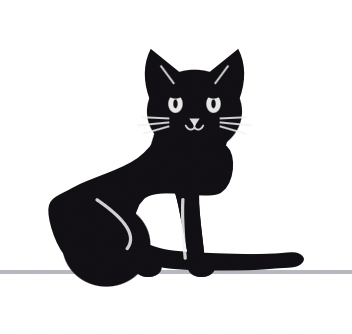
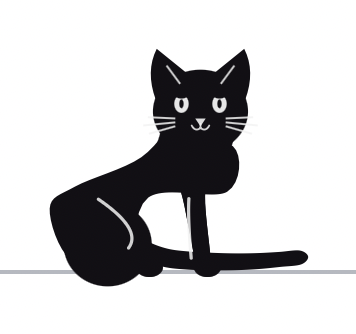
KiddyCat: quantitative shape verification — silhouette IoU vs reference
New route per the goal: numeric comparison instead of eyeballs.
Scripts/shape_iou.swift thresholds both images to binary masks, erases
the lab ground line, keeps the largest connected component, normalizes to
a common grid, and computes mirror-agnostic IoU (facing is arbitrary),
plus a diff visualization (black = both, red = reference only, blue =
render only).

Scores against the user's reference crops:
  loaf 0.797   sit 0.715   walk 0.686
The loaf score came from an actionable finding (mound too flat -> raised
to the reference's chunky height, 0.427 -> 0.797); the sit wrap was
tightened to hug the body. The sit diff shows near-total overlap with
even the facial features aligning.

diff --git a/Scripts/shape_iou.swift b/Scripts/shape_iou.swift
@@ -1,0 +1,105 @@
+import AppKit
+// Silhouette IoU: threshold both images to binary masks, crop to content
+// bbox, resize to a common grid, measure overlap.
+func mask(_ path: String) -> [[Bool]]? {
+    guard let img = NSImage(contentsOfFile: path),
+          let cg = img.cgImage(forProposedRect: nil, context: nil, hints: nil) else { return nil }
+    let w = cg.width, h = cg.height
+    let ctx = CGContext(data: nil, width: w, height: h, bitsPerComponent: 8, bytesPerRow: w*4,
+                        space: CGColorSpace(name: CGColorSpace.sRGB)!,
+                        bitmapInfo: CGImageAlphaInfo.premultipliedLast.rawValue)!
+    ctx.draw(cg, in: CGRect(x: 0, y: 0, width: w, height: h))
+    let d = ctx.data!.bindMemory(to: UInt8.self, capacity: w*h*4)
+    var m = [[Bool]](repeating: [Bool](repeating: false, count: w), count: h)
+    for y in 0..<h { for x in 0..<w {
+        let i = (y*w + x)*4
+        m[y][x] = d[i] < 110 && d[i+1] < 110 && d[i+2] < 110
+    }}
+    return m
+}
+// Erase near-full-width horizontal runs (the lab's ground line).
+func eraseGround(_ m: inout [[Bool]]) {
+    let w = m[0].count
+    for y in 0..<m.count {
+        let dark = m[y].filter { $0 }.count
+        if Double(dark) > Double(w) * 0.5 { for x in 0..<w { m[y][x] = false } }
+    }
+}
+// Keep only the largest connected component (drops the ground line/laser).
+func largestComponent(_ m: [[Bool]]) -> [[Bool]] {
+    let h = m.count, w = m[0].count
+    var labels = [[Int]](repeating: [Int](repeating: 0, count: w), count: h)
+    var best = 0, bestLabel = 0, next = 1
+    for sy in 0..<h { for sx in 0..<w where m[sy][sx] && labels[sy][sx] == 0 {
+        var stack = [(sx, sy)], count = 0
+        labels[sy][sx] = next
+        while let (x, y) = stack.popLast() {
+            count += 1
+            for (dx, dy) in [(1,0),(-1,0),(0,1),(0,-1)] {
+                let nx = x+dx, ny = y+dy
+                if nx >= 0, nx < w, ny >= 0, ny < h, m[ny][nx], labels[ny][nx] == 0 {
+                    labels[ny][nx] = next; stack.append((nx, ny))
+                }
+            }
+        }
+        if count > best { best = count; bestLabel = next }
+        next += 1
+    }}
+    var out = [[Bool]](repeating: [Bool](repeating: false, count: w), count: h)
+    for y in 0..<h { for x in 0..<w { out[y][x] = labels[y][x] == bestLabel } }
+    return out
+}
+func bbox(_ m: [[Bool]]) -> (Int, Int, Int, Int) {
+    var minX = m[0].count, maxX = 0, minY = m.count, maxY = 0
+    for y in 0..<m.count { for x in 0..<m[0].count where m[y][x] {
+        minX = min(minX, x); maxX = max(maxX, x); minY = min(minY, y); maxY = max(maxY, y) }}
+    return (minX, minY, maxX, maxY)
+}
+func norm(_ m: [[Bool]], _ n: Int) -> [[Bool]] {
+    let (x0, y0, x1, y1) = bbox(m)
+    let bw = x1 - x0 + 1, bh = y1 - y0 + 1
+    var out = [[Bool]](repeating: [Bool](repeating: false, count: n), count: n)
+    for y in 0..<n { for x in 0..<n {
+        let sx = x0 + x * bw / n, sy = y0 + y * bh / n
+        out[y][x] = m[sy][sx]
+    }}
+    return out
+}
+var ma = mask(CommandLine.arguments[1])!; eraseGround(&ma)
+let a = norm(largestComponent(ma), 220)
+var mb = mask(CommandLine.arguments[2])!; eraseGround(&mb)
+let b = norm(largestComponent(mb), 220)
+func iou(_ a: [[Bool]], _ b: [[Bool]]) -> (Double, Int, Int) {
+    var i = 0, u = 0
+    for y in 0..<220 { for x in 0..<220 {
+        if a[y][x] && b[y][x] { i += 1 }
+        if a[y][x] || b[y][x] { u += 1 }
+    }}
+    return (Double(i)/Double(u), i, u)
+}
+// Facing is arbitrary (she looks at the laser) — take the better mirror.
+let bFlip = b.map { Array($0.reversed()) }
+let straight = iou(a, b), mirrored = iou(a, bFlip)
+let bestB = mirrored.0 > straight.0 ? bFlip : b
+let (v, inter, union_) = mirrored.0 > straight.0 ? mirrored : straight
+_ = v
+let bDraw = bestB
+print(String(format: "IoU: %.3f  (intersection %d / union %d)", Double(inter)/Double(union_), inter, union_))
+// Diff visualization: black = both, red = reference only, blue = render only.
+if CommandLine.arguments.count > 3 {
+    let n = 220
+    let ctx = CGContext(data: nil, width: n, height: n, bitsPerComponent: 8, bytesPerRow: n*4,
+                        space: CGColorSpace(name: CGColorSpace.sRGB)!,
+                        bitmapInfo: CGImageAlphaInfo.premultipliedLast.rawValue)!
+    ctx.setFillColor(CGColor(red: 1, green: 1, blue: 1, alpha: 1))
+    ctx.fill(CGRect(x: 0, y: 0, width: n, height: n))
+    for y in 0..<n { for x in 0..<n {
+        var c: CGColor? = nil
+        if a[y][x] && bDraw[y][x] { c = CGColor(red: 0.1, green: 0.1, blue: 0.1, alpha: 1) }
+        else if a[y][x] { c = CGColor(red: 0.9, green: 0.2, blue: 0.2, alpha: 1) }
+        else if bDraw[y][x] { c = CGColor(red: 0.2, green: 0.4, blue: 0.95, alpha: 1) }
+        if let c = c { ctx.setFillColor(c); ctx.fill(CGRect(x: x, y: n-1-y, width: 1, height: 1)) }
+    }}
+    let rep = NSBitmapImageRep(cgImage: ctx.makeImage()!)
+    try! rep.representation(using: .png, properties: [:])!.write(to: URL(fileURLWithPath: CommandLine.arguments[3]))
+}

diff --git a/Sources/kiddyproof/KiddyCat.swift b/Sources/kiddyproof/KiddyCat.swift
@@ -294,9 +294,9 @@ final class KiddyCat {
                 let n = tail.count
                 for i in 1..<n {
                     let t = CGFloat(i) / CGFloat(n - 1)
-                    let tx = pos.x + facing * size * (-0.56 + 0.92 * t)
+                    let tx = pos.x + facing * size * (-0.56 + 0.74 * t)
                     let drop = 0.42 * (1 - t) * (1 - t)
-                    let curl = t > 0.78 ? (t - 0.78) * 1.6 : 0
+                    let curl = t > 0.72 ? (t - 0.72) * 1.9 : 0
                     let ty = groundY + size * (0.09 + drop + curl)
                     let k = settle * min(1, dt * 5)
                     let dx = (tx - tail[i].x) * k, dy = (ty - tail[i].y) * k
@@ -366,9 +366,9 @@ final class KiddyCat {
             p.backArch = 0.05
             p.shoulderHeight = 0.86
         case .lie:
-            // The loaf: a smooth low mound, head up, everything tucked.
-            p.shoulderHeight = 0.58
-            p.rumpHeight = 0.60
+            // The loaf: a smooth chunky mound, head up, everything tucked.
+            p.shoulderHeight = 0.70
+            p.rumpHeight = 0.72
             p.headHeight = 0.98
             p.headForward = 0.55
             p.crouch = 0.55
